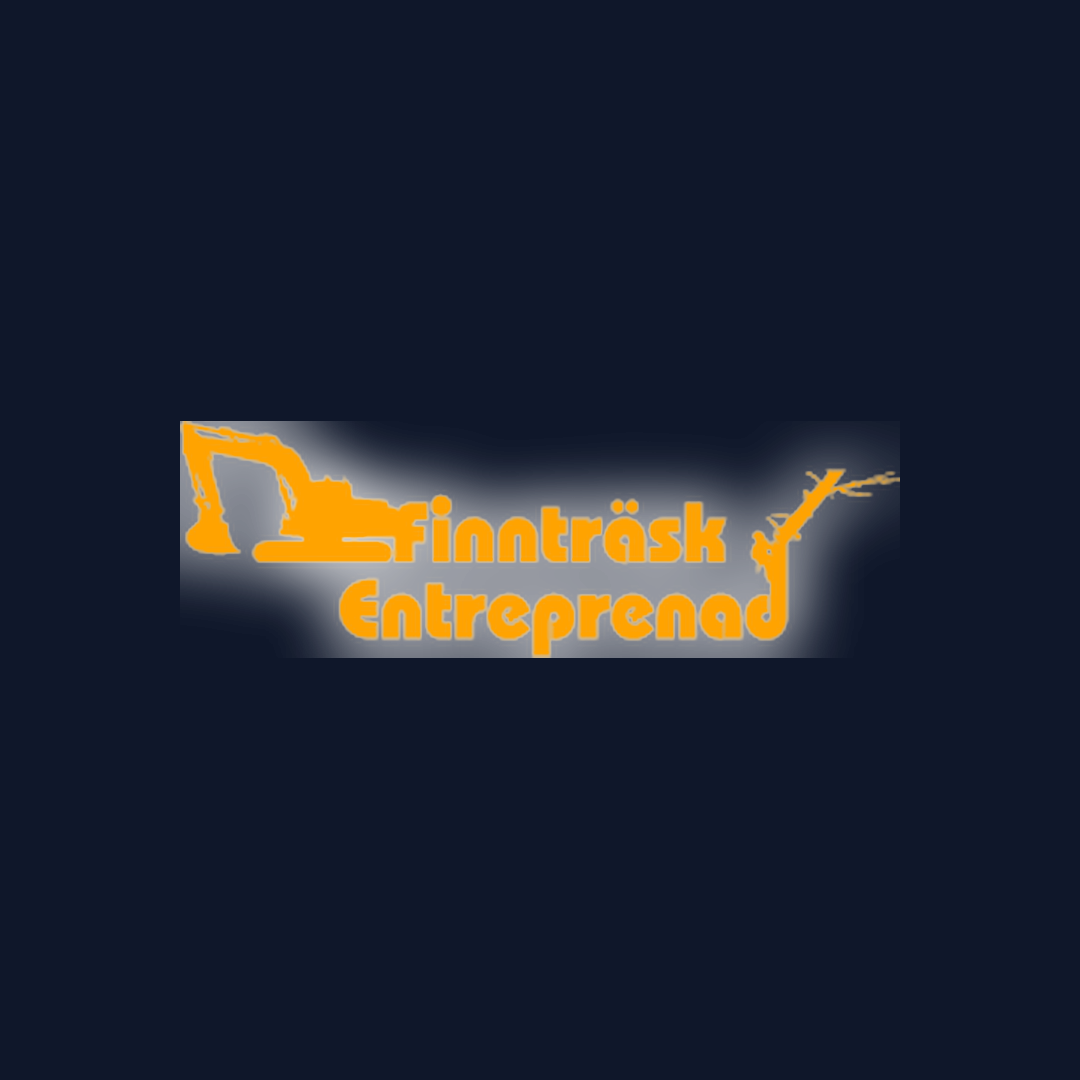
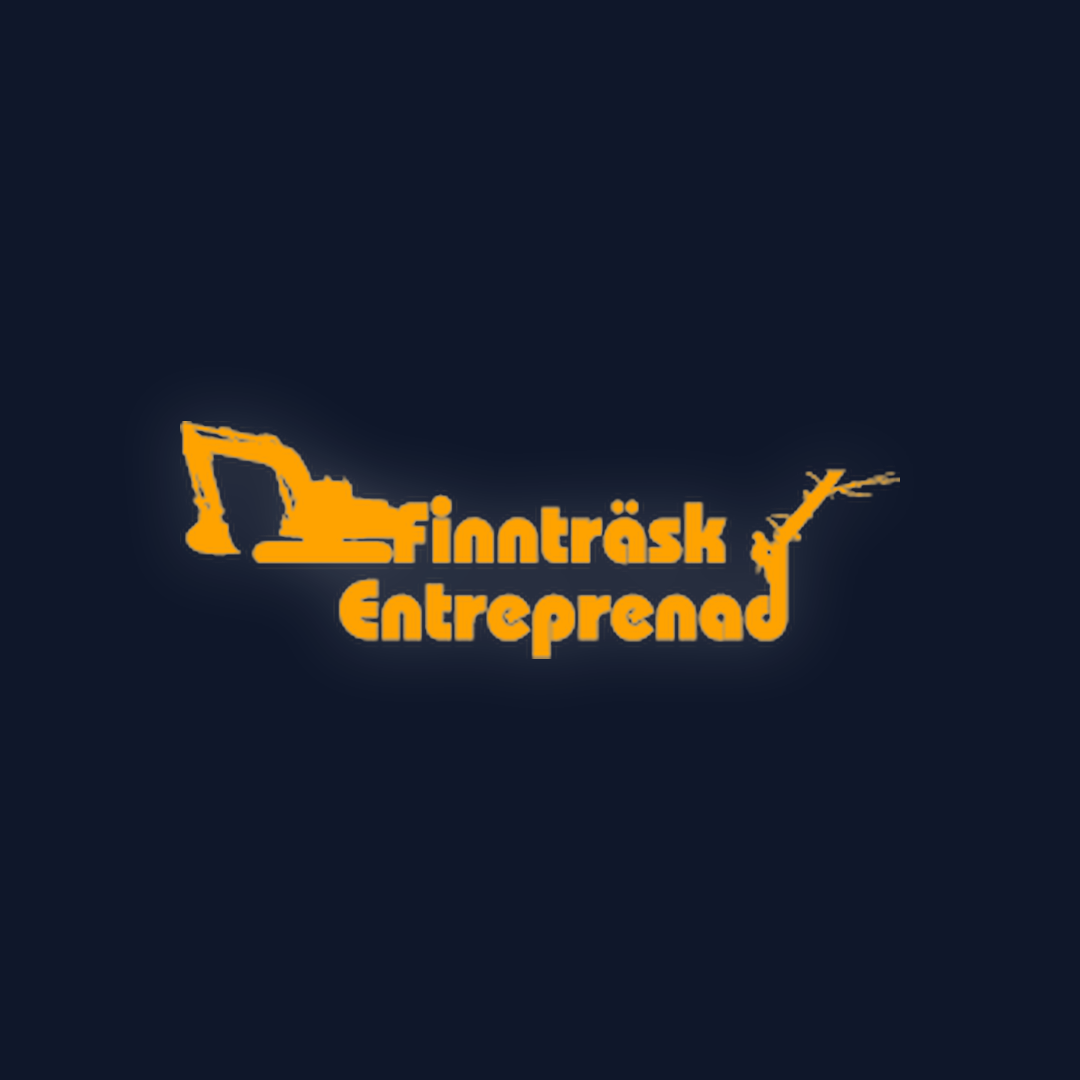
yyyyyy

Changed region(s): [[0.1528, 0.3667, 0.825, 0.6111]]

diff --git a/PROMPT_LIBRARY.md b/PROMPT_LIBRARY.md
@@ -110,37 +110,38 @@ Instagram Post 3 URL:
      4. Set images.logo.url to '/logo.png' and images.logoDark.url to '/logo-dark.png' in src/data/images.ts.
    - PREVENT WHITE BOXES: NEVER render a raw square avatar with a solid background box in the Navbar. The logo must blend seamlessly into the header.
    - CACHE ALL MEDIA LOCALLY: Also download and cache all provided gallery images and about images locally in public/gallery/ and public/about.webp (or .jpg) so the demo is never broken by expired CDN access tokens. If the company logo is used for About Us, point images.about.hero.url to '/logo.png'.
-5. LINK PREVIEW & OPEN GRAPH (CRITICAL FOR IMESSAGE, SMS & SOCIAL MEDIA):
-   - ABSOLUTE URL & DOMAIN ACCURACY (NO 404s):
-     * The AI must detect or set the exact production domain for this specific deployment (e.g. `https://[project-name].vercel.app`).
-     * CRITICAL: NEVER hardcode an outdated or mismatched domain in `index.html` or `src/hooks/usePageTitle.ts`. If the domain in `og:image` returns a 404 error, iMessage and SMS will fail to load the image and display an empty grey box.
-     * Both `index.html` (for static social bot crawlers) and `src/hooks/usePageTitle.ts` (for client navigation) MUST use the exact matching absolute URL.
-   - AUTOMATED 1200×630 OG BANNER GENERATION (MANDATORY PROGRAMMATIC ASSET):
-     * NEVER point `og:image` to a raw, transparent `logo.png` directly, as transparent logos render with black/clashing backgrounds in iMessage and WhatsApp.
-     * The AI MUST automatically run a Python/PIL script to generate `public/og-image.png` and `public/og-image.jpg` with standard OpenGraph dimensions (1200 × 630 px):
-       1. Base canvas: 1200×630 with a sleek dark navy/slate background (`#0B1120` to `#0F1A34`) featuring a subtle, soft radial brand glow in the center.
-       2. Centered logo: Place the processed, transparent company logo in the center (~650–700 px wide, proportional height), perfectly sharp and anti-aliased.
-       3. Export both `public/og-image.png` and `public/og-image.jpg` (JPEG quality 95).
+5. LINK PREVIEW & OPEN GRAPH (CRITICAL FOR INSTAGRAM DM, IMESSAGE & SOCIAL MEDIA):
+   - AUTOMATIC VERCEL DEMO DOMAIN (ZERO 404s & ZERO GUESSING):
+     * The AI must automatically derive the demo production domain from the current git repository name or project folder name: `https://[project-folder-lowercase].vercel.app` (e.g. `https://tengene-byggservice-ab.vercel.app` or `https://finntraskentreprenad-demo.vercel.app`).
+     * CRITICAL: NEVER use the client's commercial website domain (e.g. `videl.se` or `finntraskentreprenad.se`) for `og:image`, `canonical`, or `twitter:image` tags. The client domain is external/parked (often returning Loopia HTML) and will completely break link previews in Instagram DM and iMessage!
+     * Both `index.html` (for static social bot crawlers like Meta & Applebot) and `src/hooks/usePageTitle.ts` (for client navigation) MUST use this exact matching absolute Vercel URL.
+   - AUTOMATED 1200×630 BRANDED OG CARD (EXACT TENGENE GLOW RECIPE):
+     * NEVER point `og:image` to a raw, unformatted or transparent `logo.png` directly, as transparent logos render with clashing black backgrounds in iMessage and WhatsApp.
+     * The AI MUST execute `python3 scripts/generate_og_images.py` to generate `public/og-image.png`, `public/og-image.jpg`, `public/og-square.png`, `public/og-square.jpg`, and square icons:
+       1. Base canvas: 1200×630 with a sleek dark slate background (`#0F172A`).
+       2. Centered logo: Scaled proportionally (max 800px width or 420px height) with 1.35x contrast boost.
+       3. Ambient halo glow: Soft smooth Gaussian halo rendered on the full canvas mask behind the logo without any box edge clipping.
+       4. High quality export: Both PNG and JPEG (quality 95).
    - META TAGS CONFIGURATION IN index.html:
-     * Set `<meta property="og:image" content="https://[domain]/og-image.png" />`
-     * Set `<meta property="og:image:secure_url" content="https://[domain]/og-image.png" />`
+     * Set `<meta property="og:image" content="https://[project-folder-lowercase].vercel.app/og-image.png" />`
+     * Set `<meta property="og:image:secure_url" content="https://[project-folder-lowercase].vercel.app/og-image.png" />`
      * Set `<meta property="og:image:width" content="1200" />`
      * Set `<meta property="og:image:height" content="630" />`
      * Set `<meta property="og:image:type" content="image/png" />`
      * Set `<meta property="og:image:alt" content="[Company Name] Logotyp" />`
      * Set `<meta name="twitter:card" content="summary_large_image" />`
-     * Set `<meta name="twitter:image" content="https://[domain]/og-image.png" />`
-     * Set `<meta name="image" content="https://[domain]/og-image.png" />`
-     * Set `<link rel="image_src" href="https://[domain]/og-image.png" />`
-     * Set `<link rel="canonical" href="https://[domain]" />`
+     * Set `<meta name="twitter:image" content="https://[project-folder-lowercase].vercel.app/og-image.png" />`
+     * Set `<meta name="image" content="https://[project-folder-lowercase].vercel.app/og-image.png" />`
+     * Set `<link rel="image_src" href="https://[project-folder-lowercase].vercel.app/og-image.png" />`
+     * Set `<link rel="canonical" href="https://[project-folder-lowercase].vercel.app" />`
      * Set `og:title` to: `[Company Name] | [Main Service] i [Location / Area]`
      * Set `og:description` to: A concise, persuasive 1–2 sentence Swedish summary of services.
    - SCRIPT LOGIC IN src/hooks/usePageTitle.ts:
-     * Ensure the fallback `origin` matches `https://[domain]` and updates `og:image` and `twitter:image` dynamically with absolute URLs.
+     * Ensure the fallback `origin` matches `https://[project-folder-lowercase].vercel.app` and dynamically updates `og:image` and `twitter:image` with `${origin}/og-image.png`.
    - WHY THIS GUARANTEES SUCCESS:
-     * iMessage only reads raw HTML before JavaScript execution: complete absolute links (https://...) with the exact domain in index.html ensure Apple's crawler never fails.
-     * 1200×630 is Apple & Meta standard (1.91:1) filling preview cards perfectly.
-     * Dark background behind the logo ensures light and white elements render crisply in both dark and light phone modes.
+     * Instagram DM & Meta Crawler: 1200×630 on dark `#0F172A` with ambient glow fills the card perfectly without cropping.
+     * Apple iMessage & SMS: Reads the raw absolute `https://...` link before JavaScript executes and renders the glowing card instantly.
+     * Zero 404s: Never points to an unhosted or parked commercial `.se` domain.
 6. SERVICES & TEMPLATE CONSISTENCY: Keep the template's 4 core service cards and preset images intact. Seamlessly weave the new company name and operating location into service headings, descriptions, and FAQ items (in src/data/services.ts and throughout the site) so it feels completely local and customized.
 7. REVIEWS / TESTIMONIALS: Generate 3 authentic, realistic Swedish customer reviews in Home.tsx localized to the company's operating city (with authentic Swedish names like Johan E., Karin M., Markus L.) and varied lengths matching their core services.
 8. OWNER / FOUNDER SETUP (ONLY 1 PERSON): There is ONLY ONE person representing the company — the Owner/CEO. Update About.tsx with the Owner/CEO's name and title in the founder quote card (e.g. "[Name], VD och Grundare [Company Name]"), and update the single contact in CallModal.tsx and JSON-LD schema in index.html. In the About Us photo card, use the provided photo of the owner/team, OR the company logo if no photo is available. NEVER create or inject a 3-member team grid or placeholder craftsmen.
